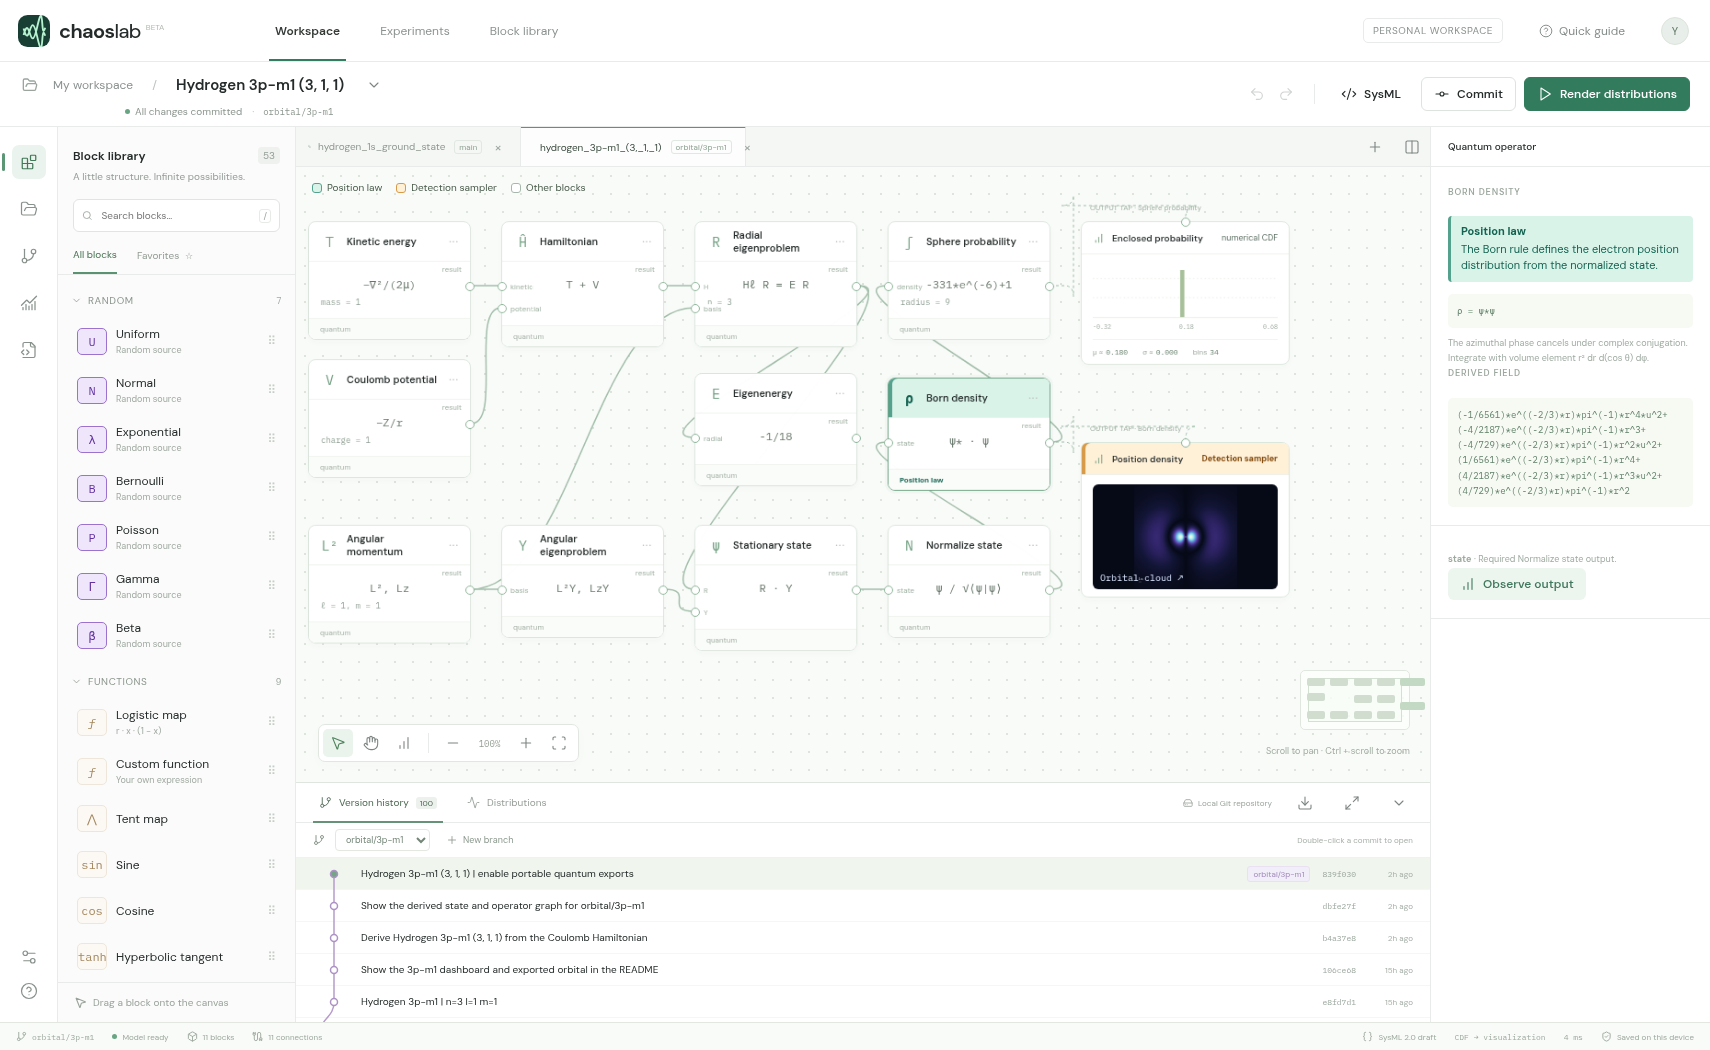
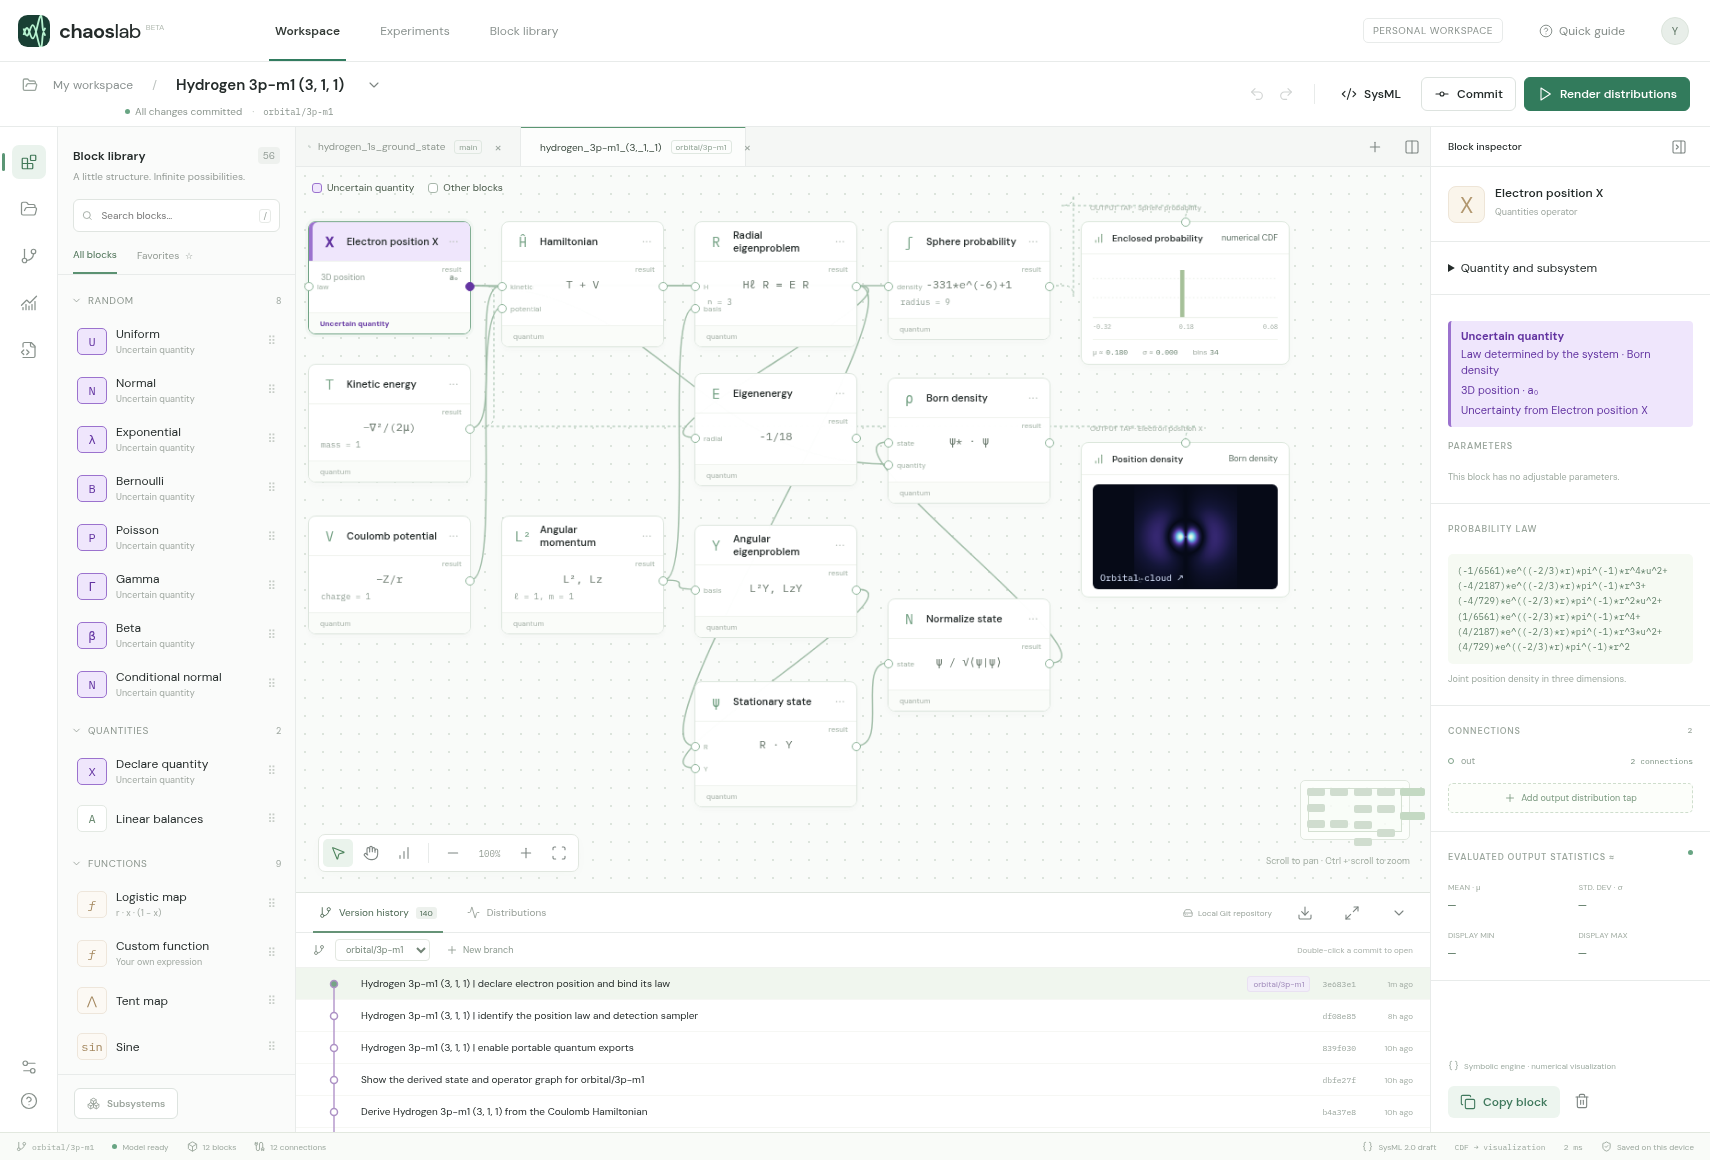
Show the position declaration and its law provider for orbital/3p-m1

diff --git a/studio.py b/studio.py
@@ -10,7 +10,7 @@ import tempfile
 import webbrowser
 
 ROOT = Path(__file__).resolve().parent
-STUDIO_REV = "5cbb600c6ee5baa24d159ddc6c974d68eb68f653"
+STUDIO_REV = "515ba96842af71b90f41019a508548a96e802665"
 STUDIO_REPO = "https://github.com/wa200508/chaos_lab.git"
 
 

diff --git a/README.md b/README.md
@@ -6,7 +6,7 @@ Open **Version history** in Chaos Lab to explore the 20 hydrogen designs in this
 
 The connected Hamiltonian and eigenstate solvers give $E=-1/18$ Hartree for this state.
 
-The purple **Electron position X** block declares the three-dimensional quantity in Bohr radii. Open its inspector to see **Born density** as its law provider. The sphere measurement and spatial tap both observe X. Projected detections draw from the final law; the central slice evaluates the density directly.
+The purple **Electron position X** block declares the three-dimensional quantity in Bohr radii. Open its inspector to see **Born density** as its law provider. The sphere measurement and spatial tap both observe X. Projected detections draw from the final law. The central slice evaluates the density directly.
 
 ![Chaos Lab dashboard with the 3p model, m = 1, open in version history](dashboard.png)
 
